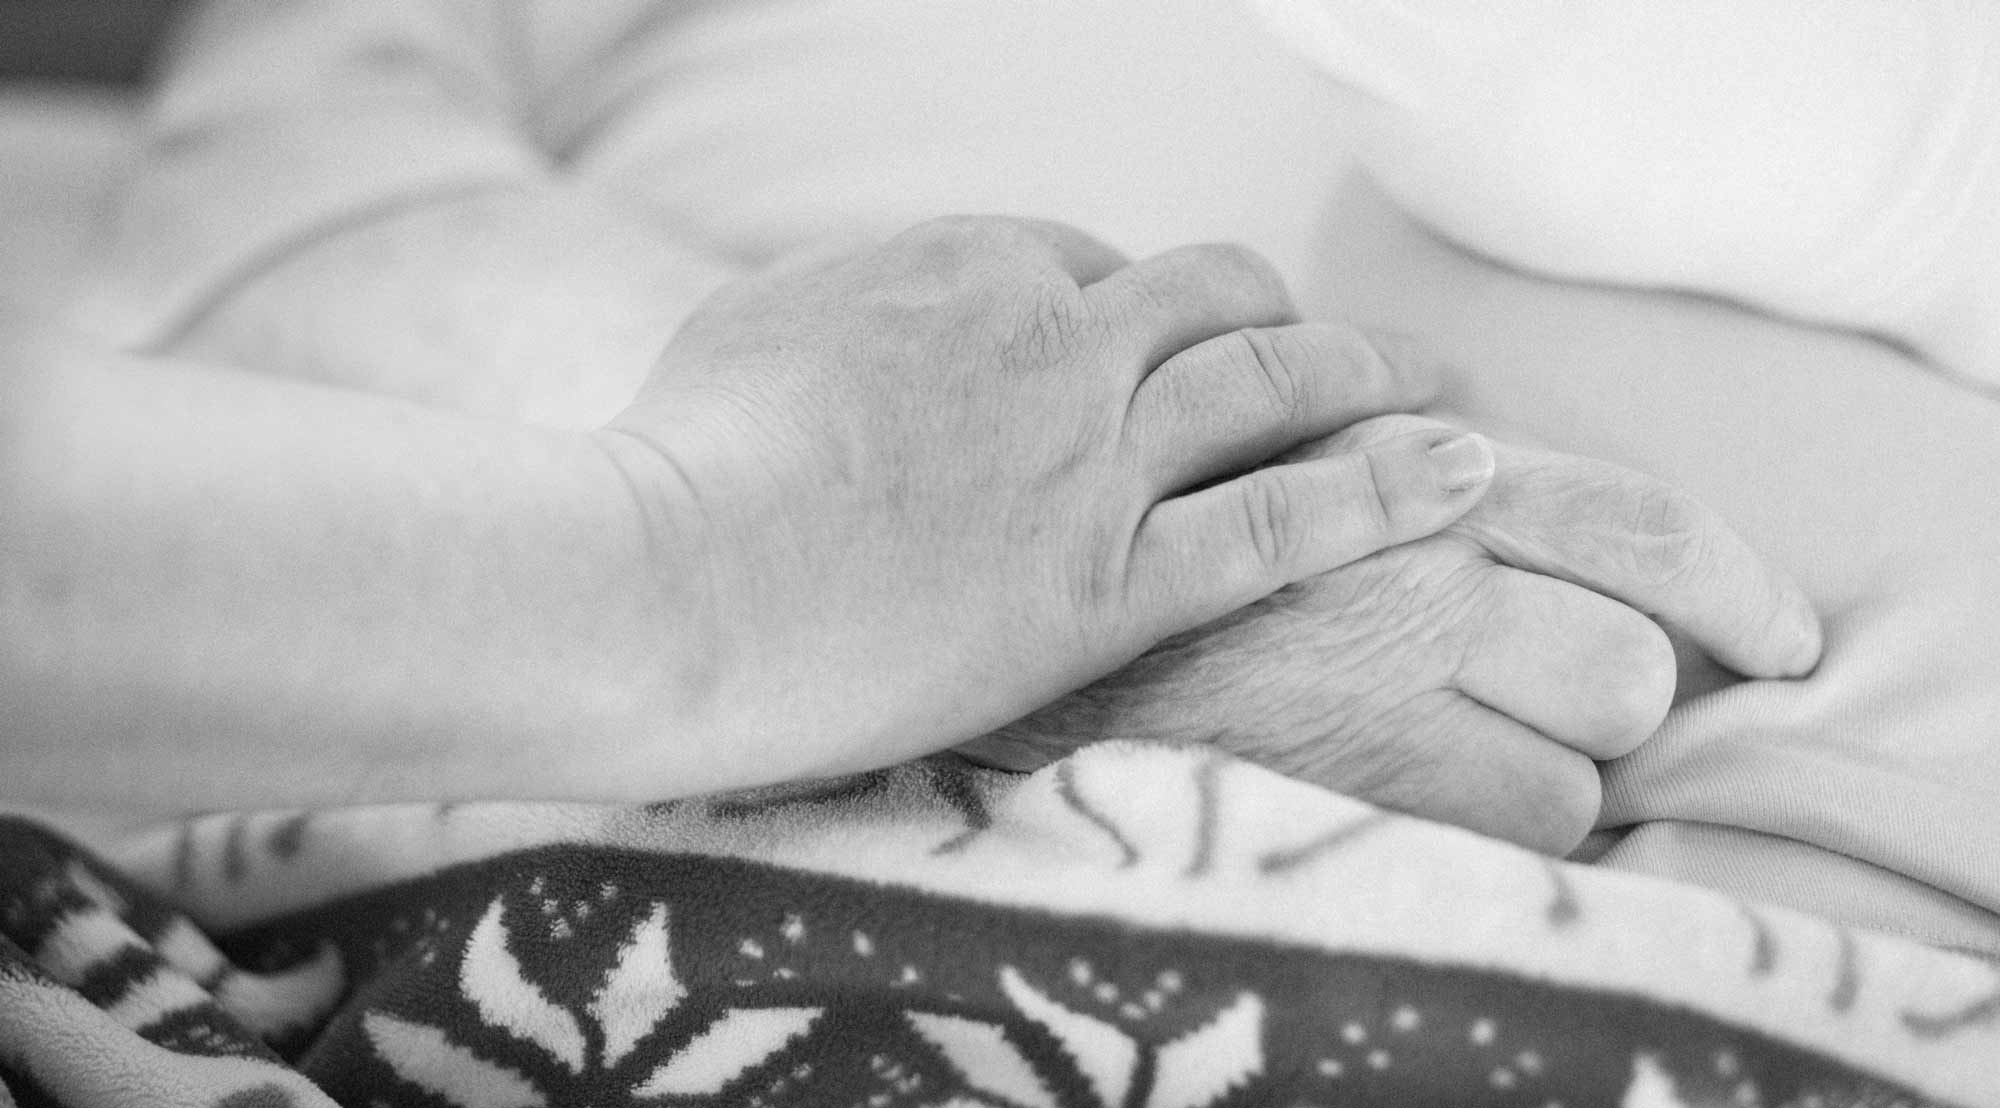
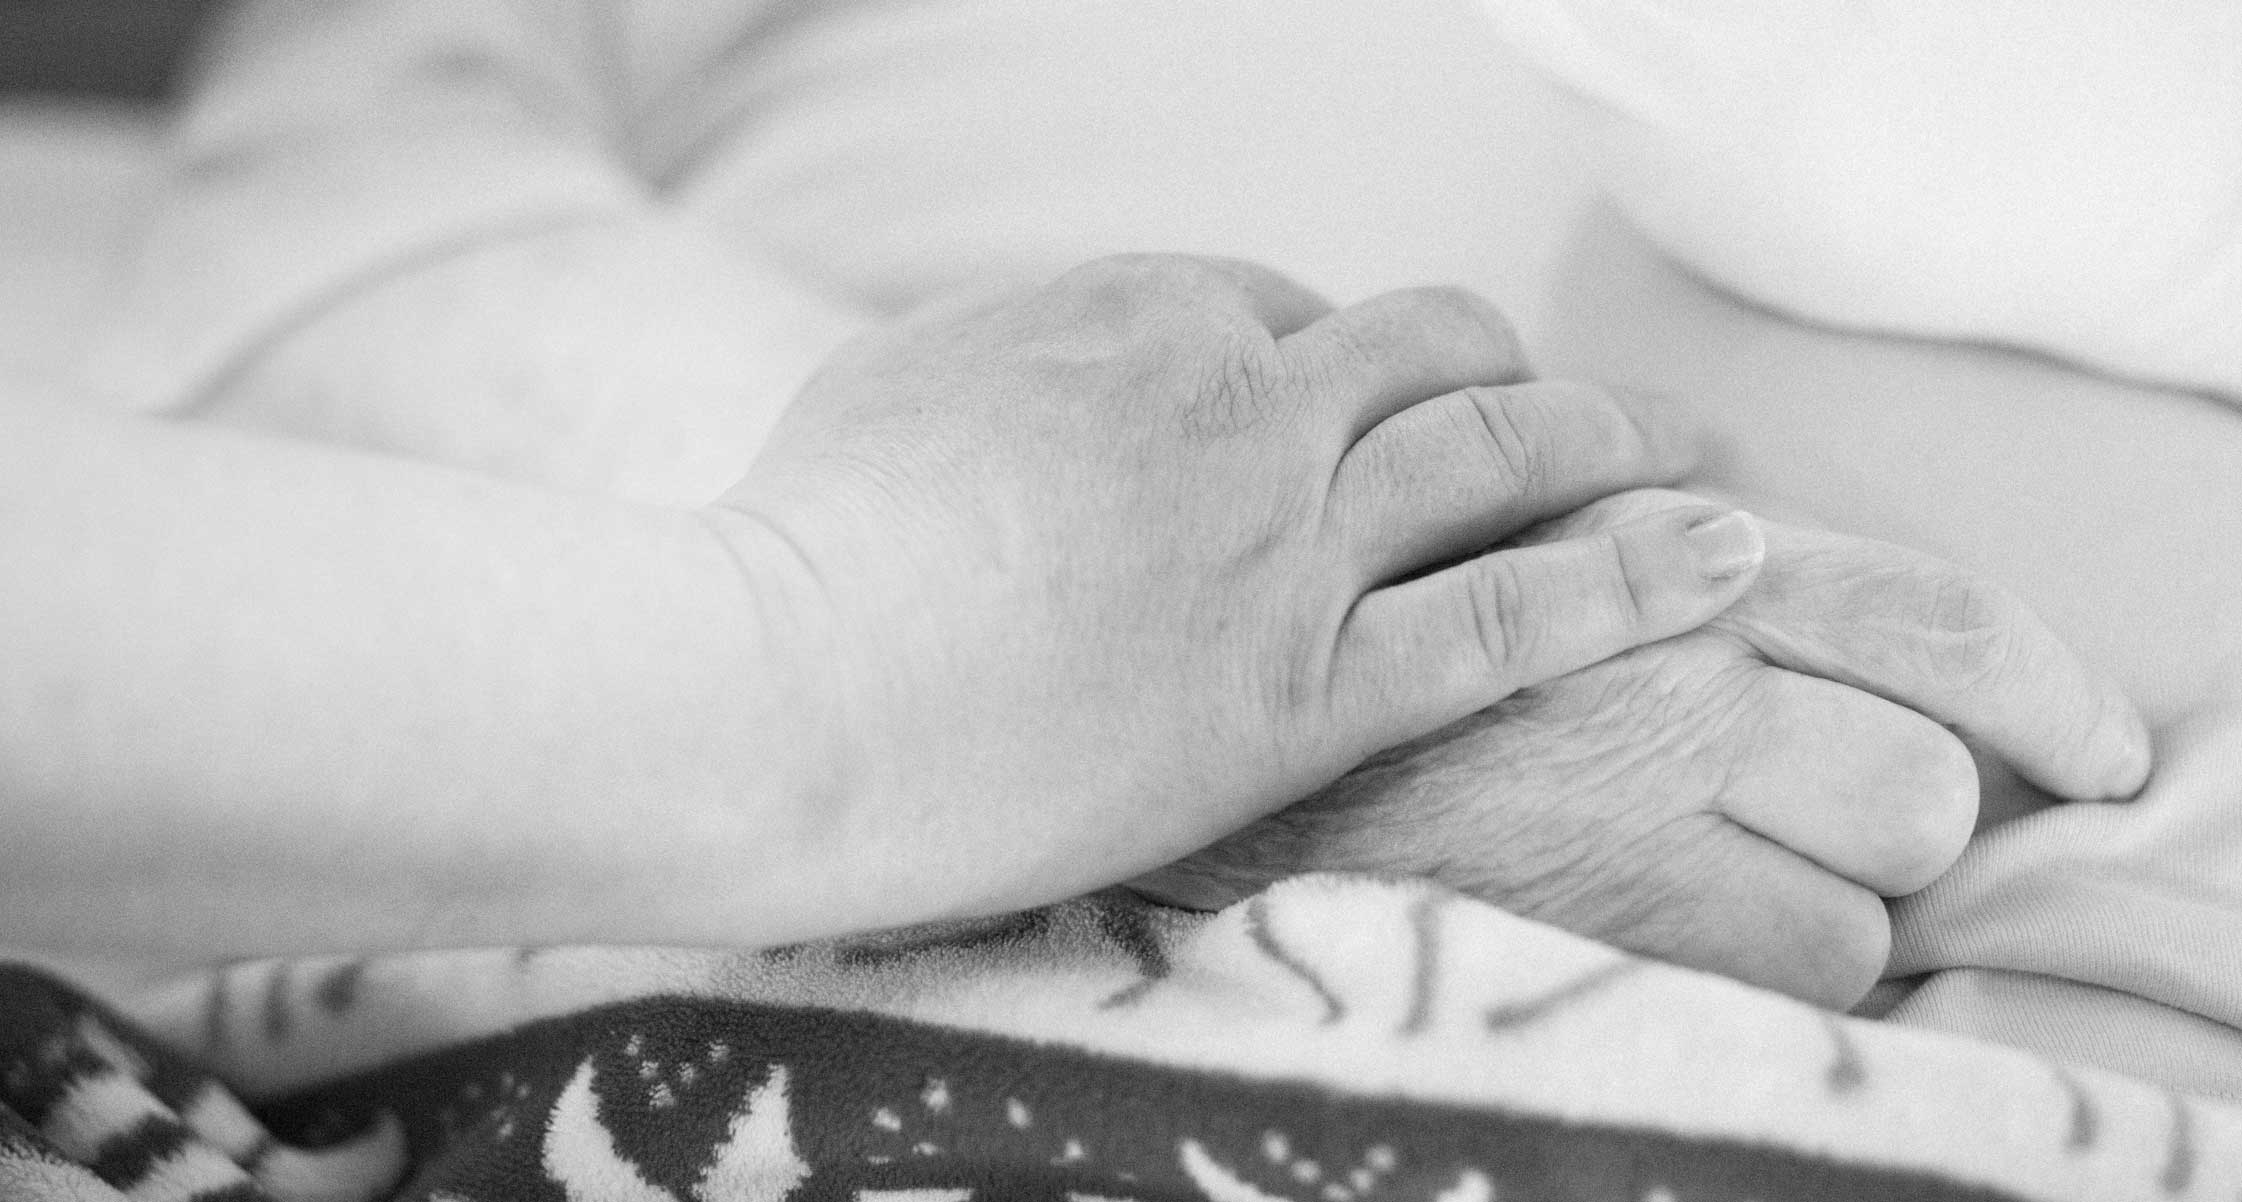
Update homepage background for better readability of overlayed text.

diff --git a/correctiv_nursinghomes/static/correctiv_nursinghomes/css/nursinghomes.css b/correctiv_nursinghomes/static/correctiv_nursinghomes/css/nursinghomes.css
@@ -1,6 +1,6 @@
 .nursinghomes__hero {
   background-image: url('../img/index-background.jpg');
-  background-position: center;
+  background-position: left center;
   background-size: cover;
 }
 
